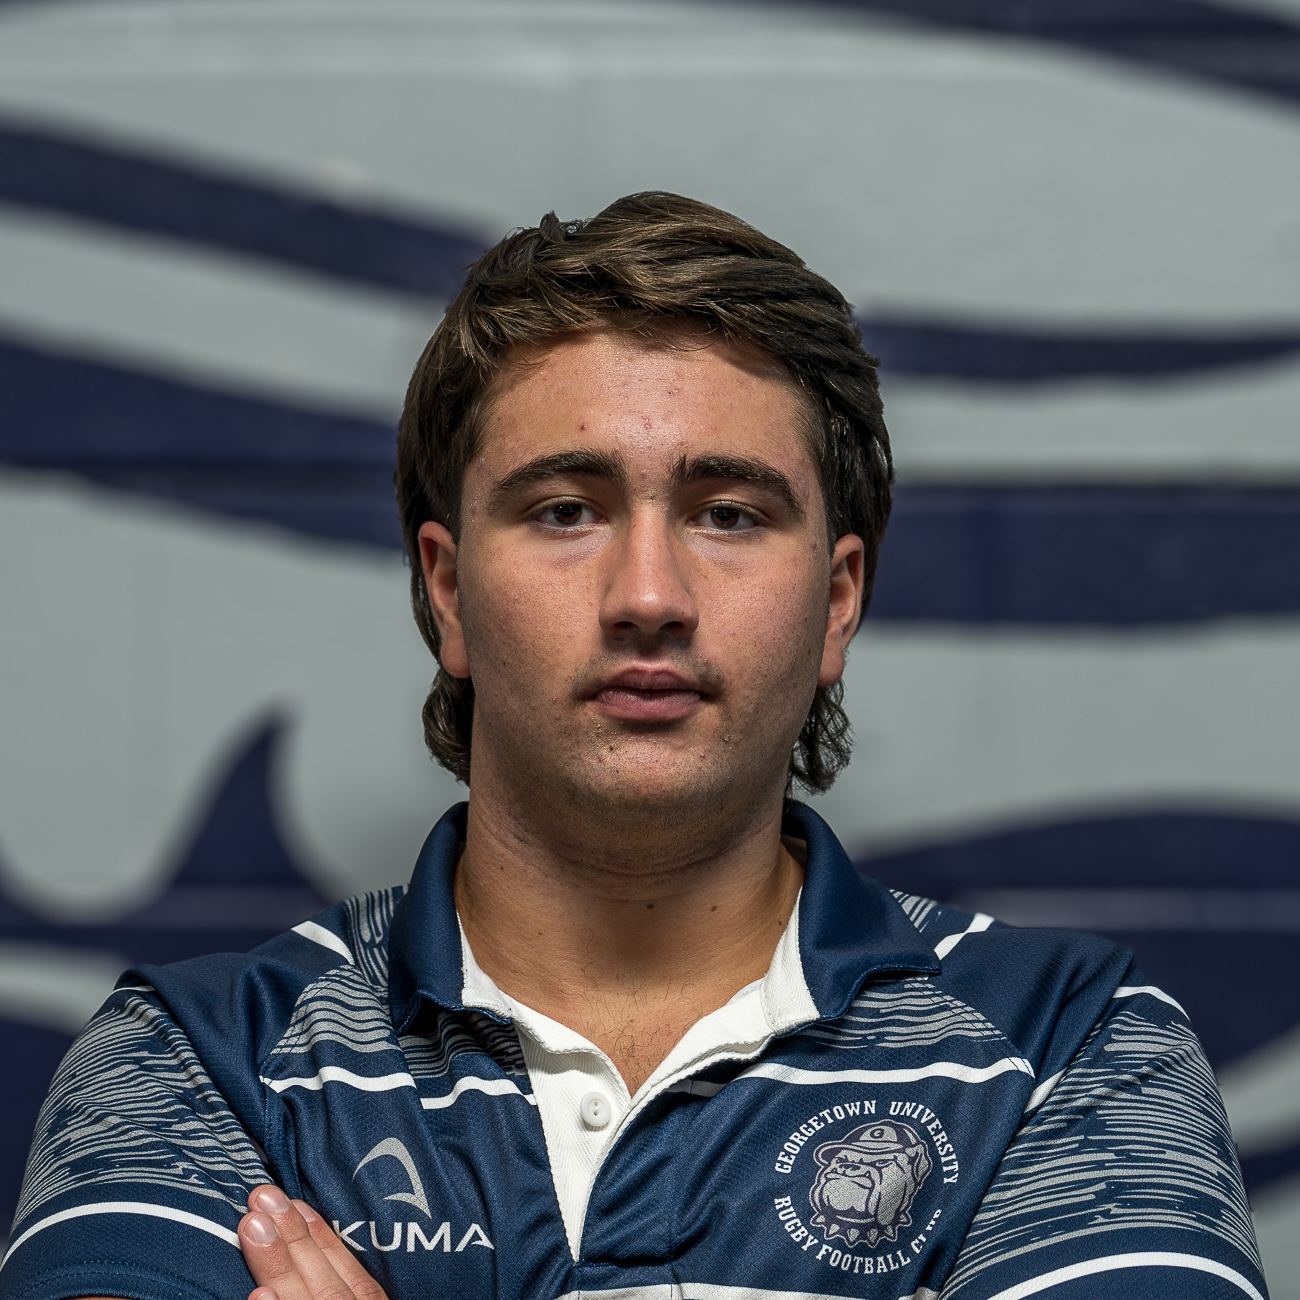
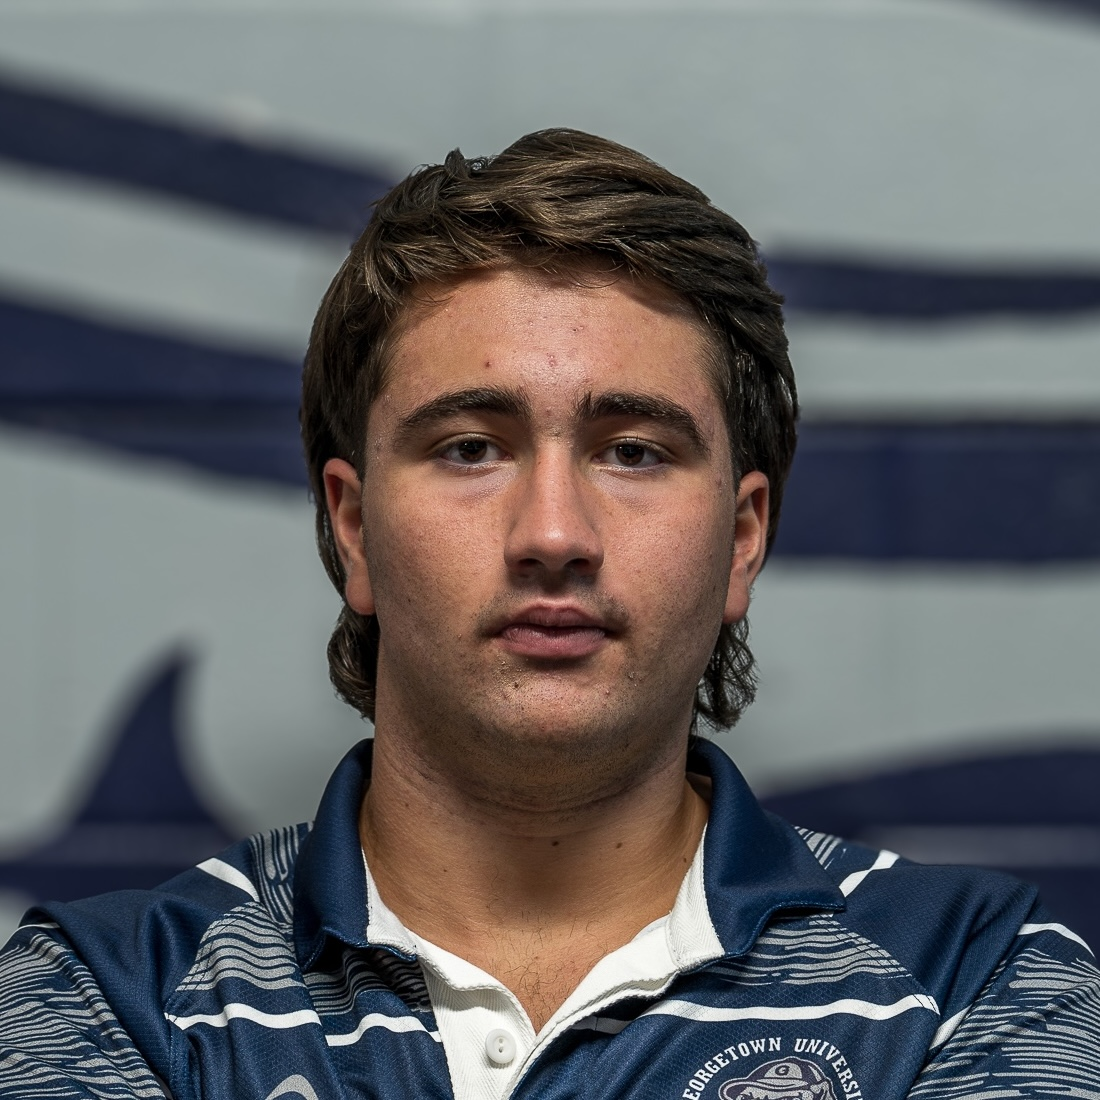
pictures, watch page style

diff --git a/rosterNew.js b/rosterNew.js
@@ -12,8 +12,8 @@ const players = [
     position: "Scrum-Half",
     year: "2025",
     hometown: "Washington, DC",
-    image: "images/roster/gav.jpg",
-    hoverImage: "images/roster/aub.jpg",
+    image: "images/roster/Gav_C.jpg",
+    hoverImage: "images/roster/Gav_C.jpg",
     lastname: "Brady",
     pos: 9,
     board: "Captain",
@@ -23,7 +23,7 @@ const players = [
     position: "Number 8",
     year: "2025",
     hometown: "London, UK",
-    image: "images/roster/aub.jpg",
+    image: "images/roster/Aub_B.jpg",
     lastname: "Aird",
     pos: 8,
     board: "President",
@@ -33,7 +33,7 @@ const players = [
     position: "Hooker",
     year: "2025",
     hometown: "London, UK",
-    image: "images/roster/long.jpg",
+    image: "images/roster/Lonny_B.jpg",
     lastname: "Lonergan",
     pos: 2,
     board: "Treasurer",
@@ -43,7 +43,7 @@ const players = [
     position: "Wing",
     year: "2025",
     hometown: "Pasadena, CA",
-    image: "images/roster/duncan.jpg",
+    image: "images/roster/Dunc_A.jpg",
     lastname: "Duncan",
     pos: 11,
     board: "Social Chair",
@@ -53,7 +53,7 @@ const players = [
     position: "Fullback",
     year: "2027",
     hometown: "Darien, CT",
-    image: "images/roster/mancini.jpg",
+    image: "images/roster/Cini_A.jpg",
     lastname: "Mancini",
     pos: 15,
     board: "Recruitment Chair",
@@ -63,7 +63,7 @@ const players = [
     position: "Lock",
     year: "2026",
     hometown: "Brookline, MA",
-    image: "images/roster/brodie.jpg",
+    image: "images/roster/BL_A.jpg",
     lastname: "Lee",
     pos: 4,
     board: "Webmaster",
@@ -76,7 +76,7 @@ const players = [
     image: "images/roster/willer.jpg",
     lastname: "Miller",
     pos: 15,
-    board: "Webmaster Emeritus",
+    board: "Webmaster",
   },
   {
     name: "Andrew Maloney",
@@ -89,61 +89,6 @@ const players = [
     board: "Alumni Chair",
   },
   {
-    name: "Joel Saxon",
-    position: "Scrum-half",
-    year: "2027",
-    hometown: "Morristown, NJ",
-    image: "images/roster/joel.jpeg",
-    lastname: "Saxon",
-    pos: 9,
-    board: "Vice President",
-  },
-  {
-    name: "George Egan",
-    position: "Flanker",
-    year: "2027",
-    hometown: "Omaha, NE",
-    image: "images/roster/egan.jpg",
-    lastname: "Egan",
-    pos: 6,
-  },
-  {
-    name: "Gus Dotson",
-    position: "Lock",
-    year: "2026",
-    hometown: "New York, NY",
-    image: "images/roster/dotson.jpg",
-    lastname: "Dotson",
-    pos: 5,
-  },
-  {
-    name: "Sam Ottariano",
-    position: "Prop",
-    year: "2026",
-    hometown: "Reston, VA",
-    image: "images/roster/samo.jpg",
-    lastname: "Ottariano",
-    pos: 1,
-  },
-  {
-    name: "Lucas Barsantini",
-    position: "Fullback",
-    year: "2026",
-    hometown: "Bethesda, MD",
-    image: "images/roster/lucas.jpg",
-    lastname: "Barsantini",
-    pos: 15,
-  },
-  {
-    name: "Conor Sippel",
-    position: "Fly-Half",
-    year: "2027",
-    hometown: "Hong Kong",
-    image: "images/roster/Csip_A.jpg",
-    lastname: "Sippel",
-    pos: 10,
-  },
-  {
     name: "Anthony Altobelli",
     position: "Wing",
     year: "2025",
@@ -154,29 +99,93 @@ const players = [
     board: "Match Secretary",
   },
   {
+    name: "Joel Saxon",
+    position: "Scrum-half",
+    year: "2027",
+    hometown: "Morristown, NJ",
+    image: "images/roster/Joel_A.jpg",
+    lastname: "Saxon",
+    pos: 9,
+    board: "Vice President",
+  },
+  {
     name: "Quinn Zebrowski",
     position: "Outside Center",
     year: "2025",
     hometown: "Verona, NJ",
-    image: "images/roster/zebo.jpg",
+    image: "images/roster/Zebo_A.jpg",
     lastname: "Zebrowski",
     pos: 13,
     board: "Alumni Chair Emeritus",
+  },
+  {
+    name: "George Egan",
+    position: "Flanker",
+    year: "2027",
+    hometown: "Omaha, NE",
+    image: "images/roster/Egan_A.jpg",
+    lastname: "Egan",
+    pos: 6,
+  },
+  {
+    name: "Michael Suozzi",
+    position: "Lock",
+    year: "2025",
+    hometown: "Glen Cove, NY",
+    image: "images/roster/Souz_A.jpg",
+    lastname: "Suozzi",
+    pos: 5,
+  },
+  {
+    name: "Gus Dotson",
+    position: "Lock",
+    year: "2026",
+    hometown: "New York, NY",
+    image: "images/roster/Gus_B.jpg",
+    lastname: "Dotson",
+    pos: 5,
+  },
+  {
+    name: "Sam Ottariano",
+    position: "Prop",
+    year: "2026",
+    hometown: "Reston, VA",
+    image: "images/roster/Samo_A.jpg",
+    lastname: "Ottariano",
+    pos: 1,
+  },
+  {
+    name: "Conor Sippel",
+    position: "Fly-Half",
+    year: "2027",
+    hometown: "Hong Kong, China",
+    image: "images/roster/Csip_A.jpg",
+    lastname: "Sippel",
+    pos: 10,
   },
   {
     name: "Jack Daly",
     position: "Hooker",
     year: "2027",
     hometown: "Wayland, MA",
-    image: "images/roster/daly.jpg",
+    image: "images/roster/Daly_B.jpg",
     lastname: "Daly",
     pos: 2,
+  },
+  {
+    name: "Nessan O'Donell",
+    position: "Scrum-Half",
+    year: "2025",
+    hometown: "Boston, MA",
+    image: "images/roster/NoD_B.jpg",
+    lastname: "O'Donell",
+    pos: 9,
   },
   {
     name: "Dominic Wright",
     position: "Prop",
     year: "2028",
-    hometown: "MI",
+    hometown: "Columbiaville, MI",
     image: "images/roster/DW_A.jpg",
     lastname: "Wright",
     pos: 1,
@@ -189,6 +198,15 @@ const players = [
     image: "images/roster/DP_A.jpg",
     lastname: "Petronsinelli",
     pos: 1,
+  },
+  {
+    name: "Kerry McKeon",
+    position: "Wing",
+    year: "2027",
+    hometown: "Bethesda, MD",
+    image: "images/roster/Ker_B.jpg",
+    lastname: "McKeon",
+    pos: 11,
   },
   {
     name: "Reid Spence",
@@ -204,15 +222,24 @@ const players = [
     position: "Lock, Flanker",
     year: "2028",
     hometown: "Miami, FL",
-    //image: "images/roster/ethan.jpg",
+    image: "images/roster/EB_A.jpg",
     lastname: "Brady",
     pos: 5,
+  },
+  {
+    name: "Maximus Anigacz",
+    position: "Prop",
+    year: "2028",
+    hometown: "New York, NY",
+    image: "images/roster/Max_B.jpg",
+    lastname: "Anigacz",
+    pos: 1,
   },
   {
     name: "Levi Merenstein",
     position: "Flanker",
     year: "2028",
-    hometown: "unknown",
+    hometown: "Bethesda, MD",
     image: "images/roster/Levi_A.jpg",
     lastname: "Merenstein",
     pos: 6,
@@ -236,6 +263,15 @@ const players = [
     pos: 1,
   },
   {
+    name: "Vikas Bobba",
+    position: "Wing",
+    year: "2025",
+    hometown: "San Francisco, CA",
+    image: "images/roster/VK_A.jpg",
+    lastname: "Bobba",
+    pos: 11,
+  },
+  {
     name: "Drew McMaken",
     position: "Flanker",
     year: "2028",
@@ -255,7 +291,6 @@ function printBoardPosition(player) {
 //fucntion to change the image of the player when the user hovers on the card
 
 function createBlank(player) {
-  //if the player has an image, return the image
   if (player.image) {
     return player.image;
   } else {

diff --git a/style.css b/style.css
@@ -293,6 +293,12 @@ html {
   font-size: 3rem;
 }
 
+@media screen and (max-width: 1040px) {
+  .schedule__container {
+    font-size: 1.7rem;
+  }
+}
+
 .schedule__card {
   display: inline-block;
 }
